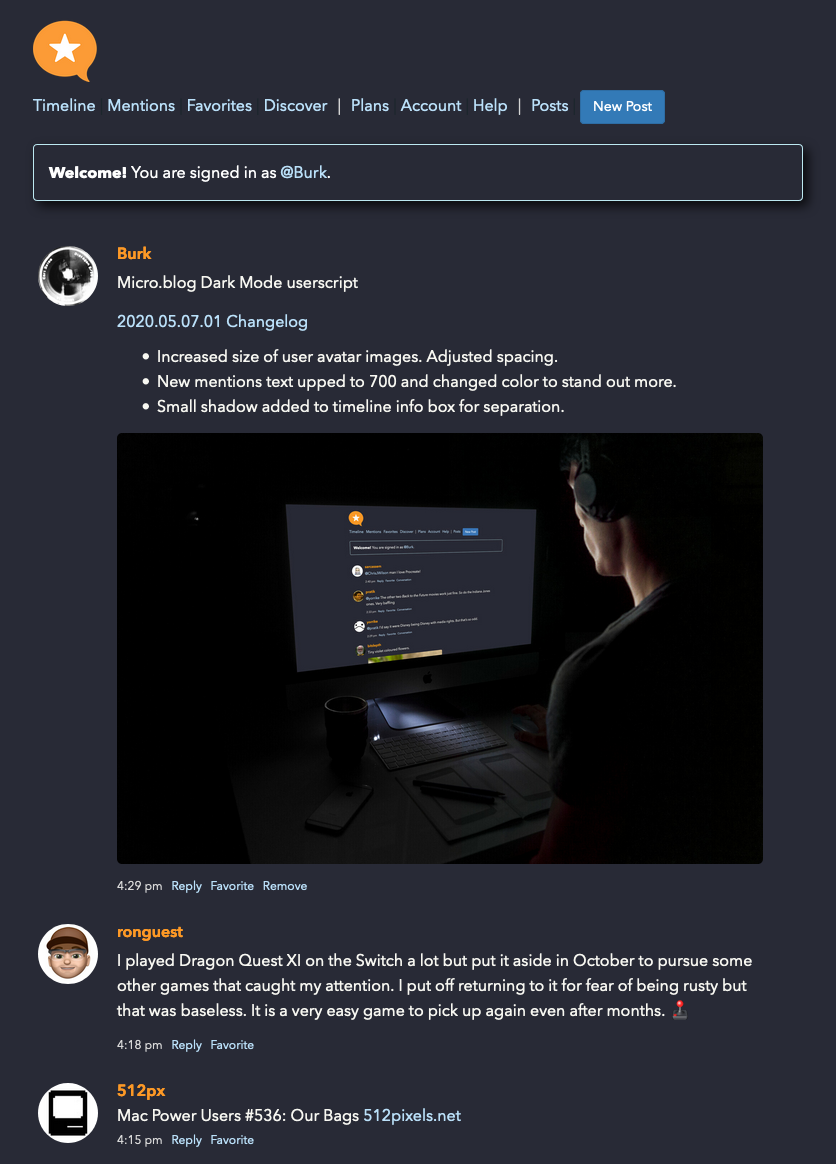
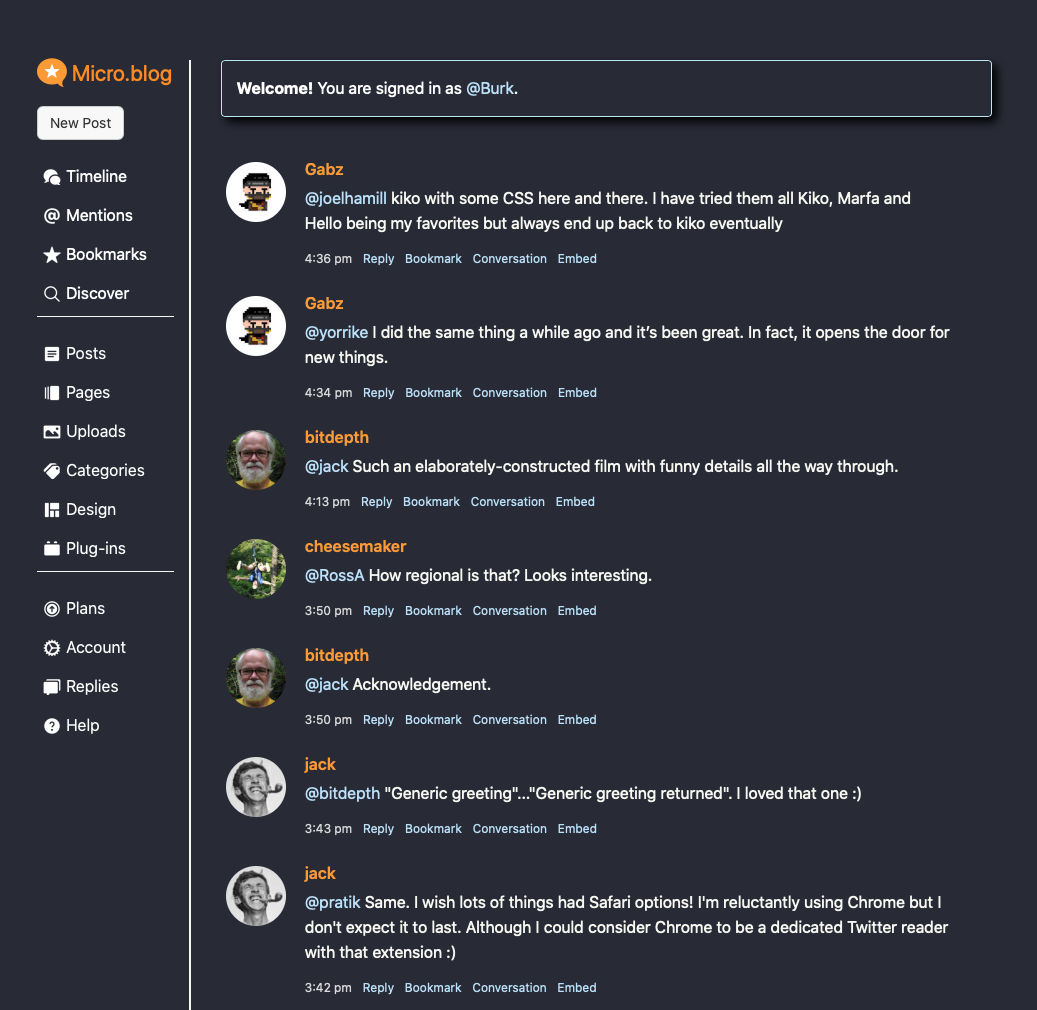
Update screenshot for latest version

diff --git a/README.md b/README.md
@@ -52,5 +52,5 @@ Background info: https://burk.io/2020/making-a-userscript-for-micro-blog
 - Initial release.
 
 
-**Screenshot from version 2020.05.17.01**
-![Screenshot from version 2020.05.17.01](https://github.com/jasonburk/userscript-micro.blog-dark/blob/master/userscript-mb-example-screenshot.png)
+**Screenshot from version 2020.09.30.09**
+![Screenshot from version 2020.09.30.09](https://github.com/jasonburk/userscript-micro.blog-dark/blob/master/userscript-mb-example-screenshot.png)
